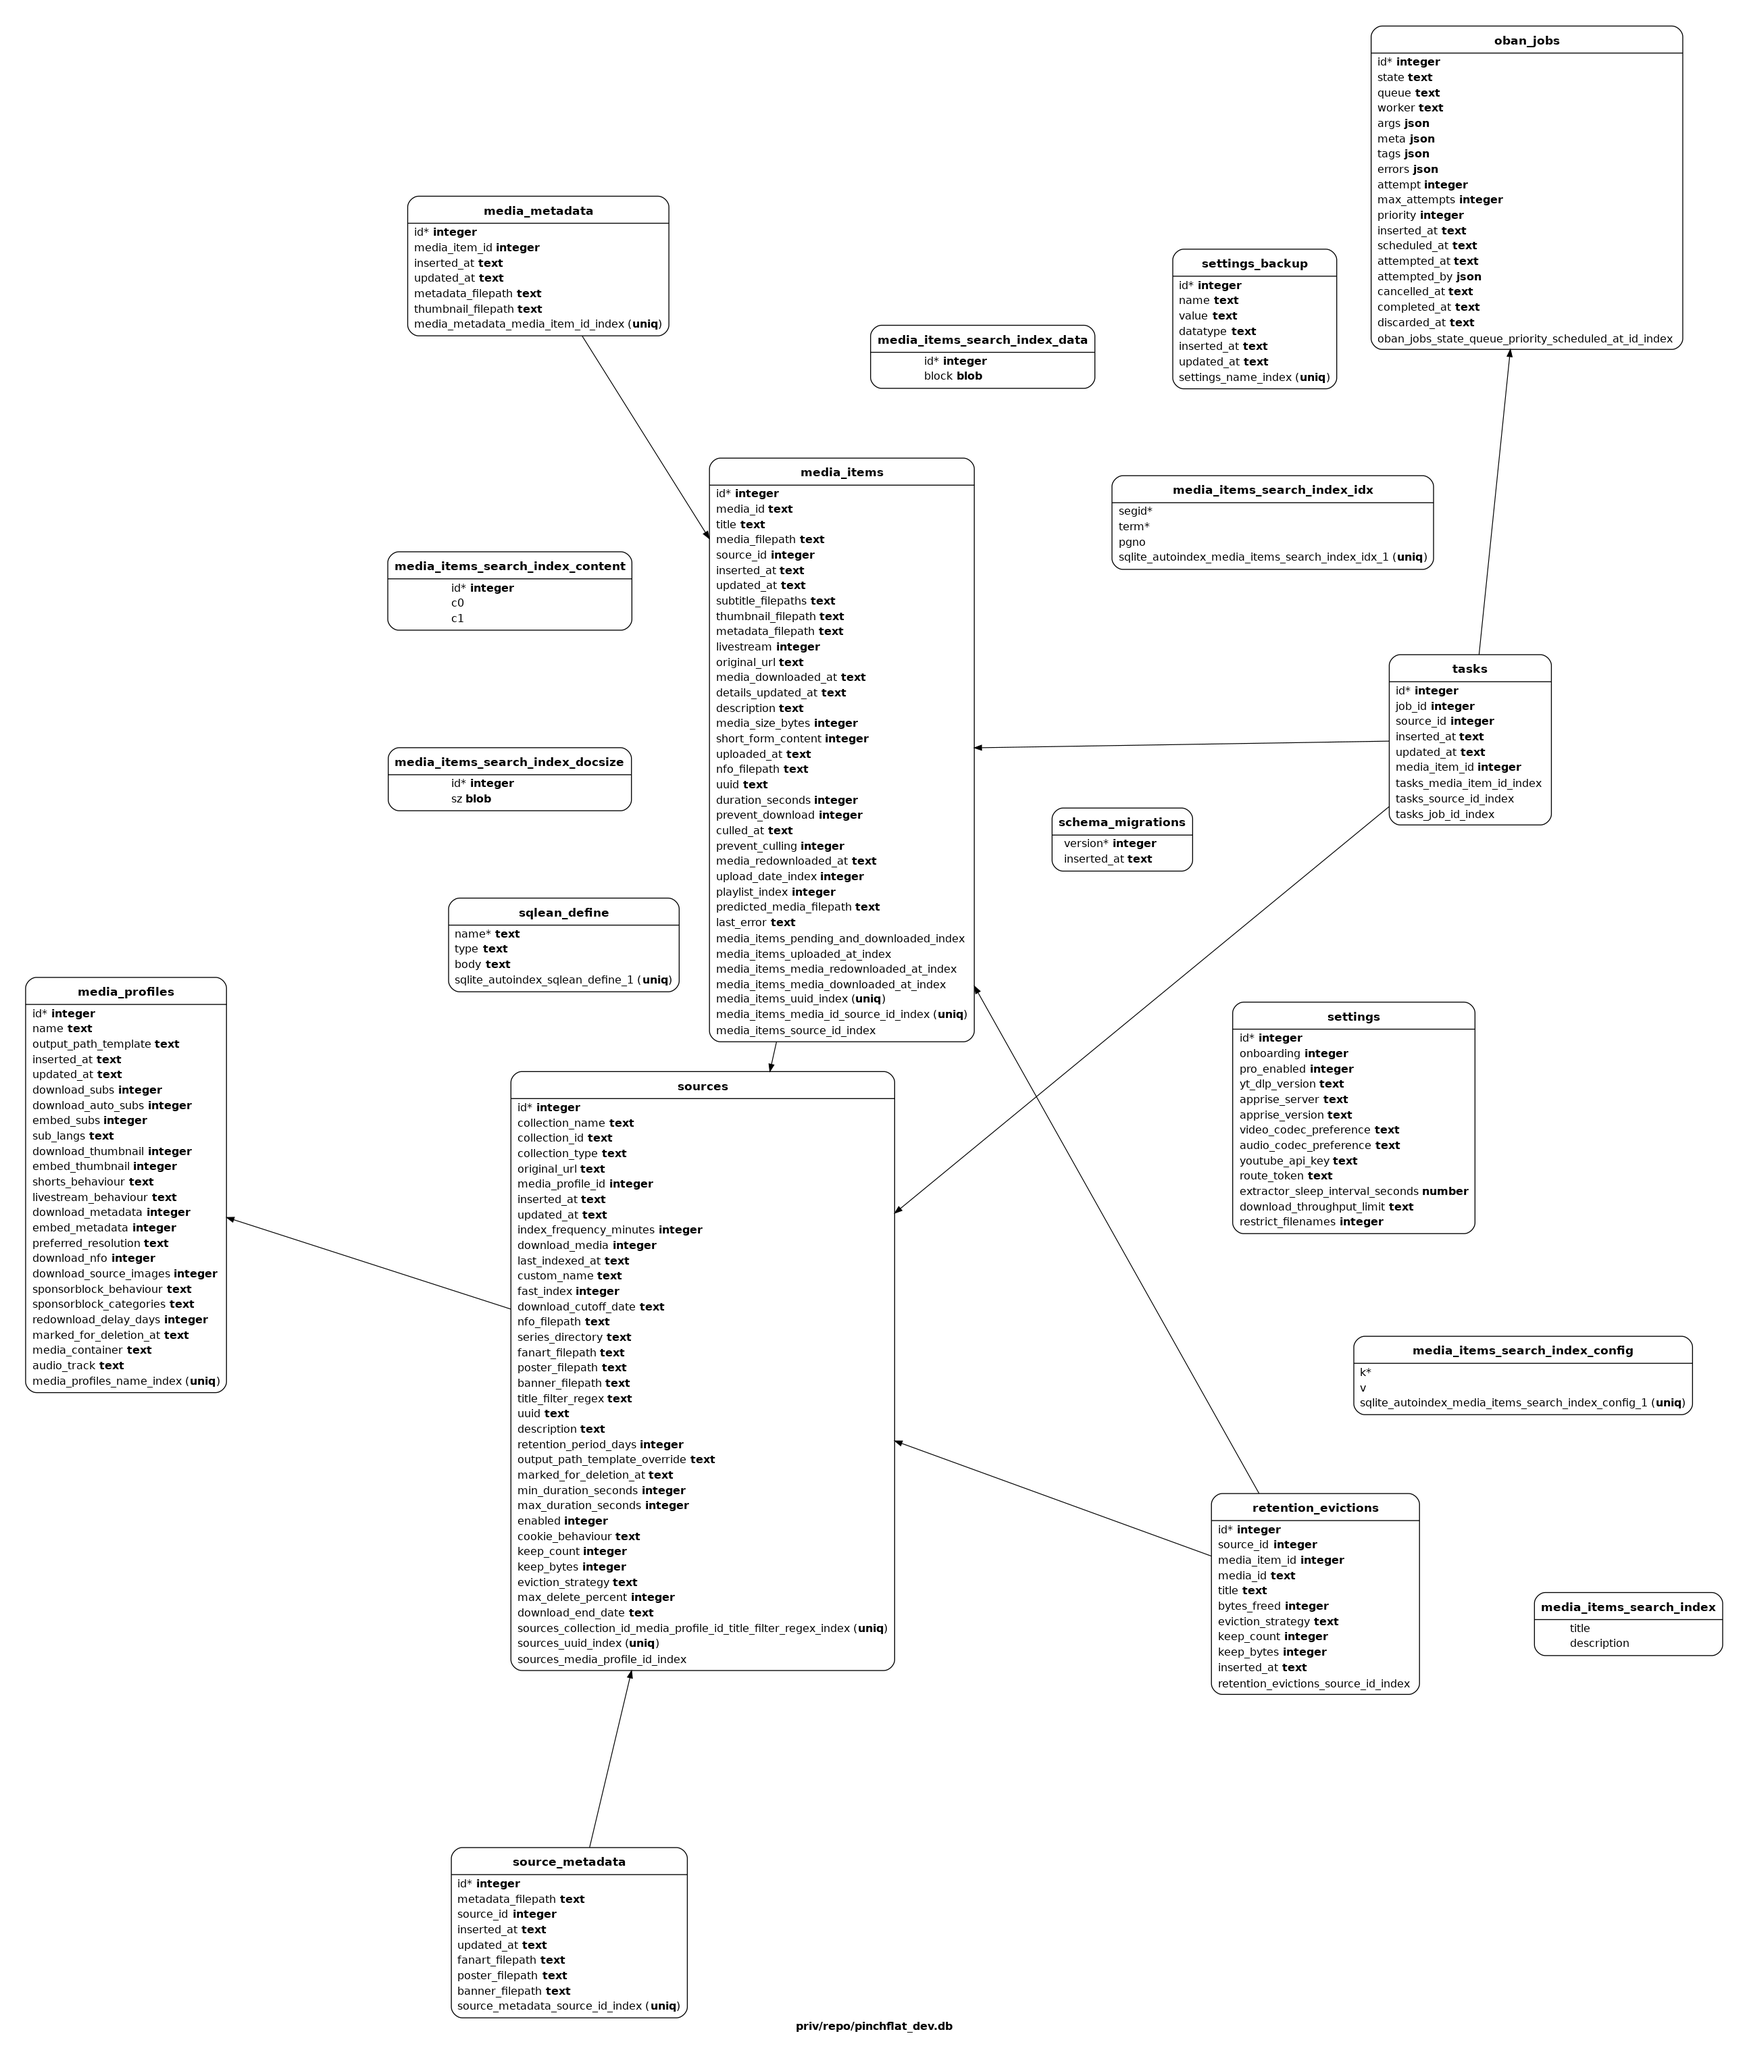
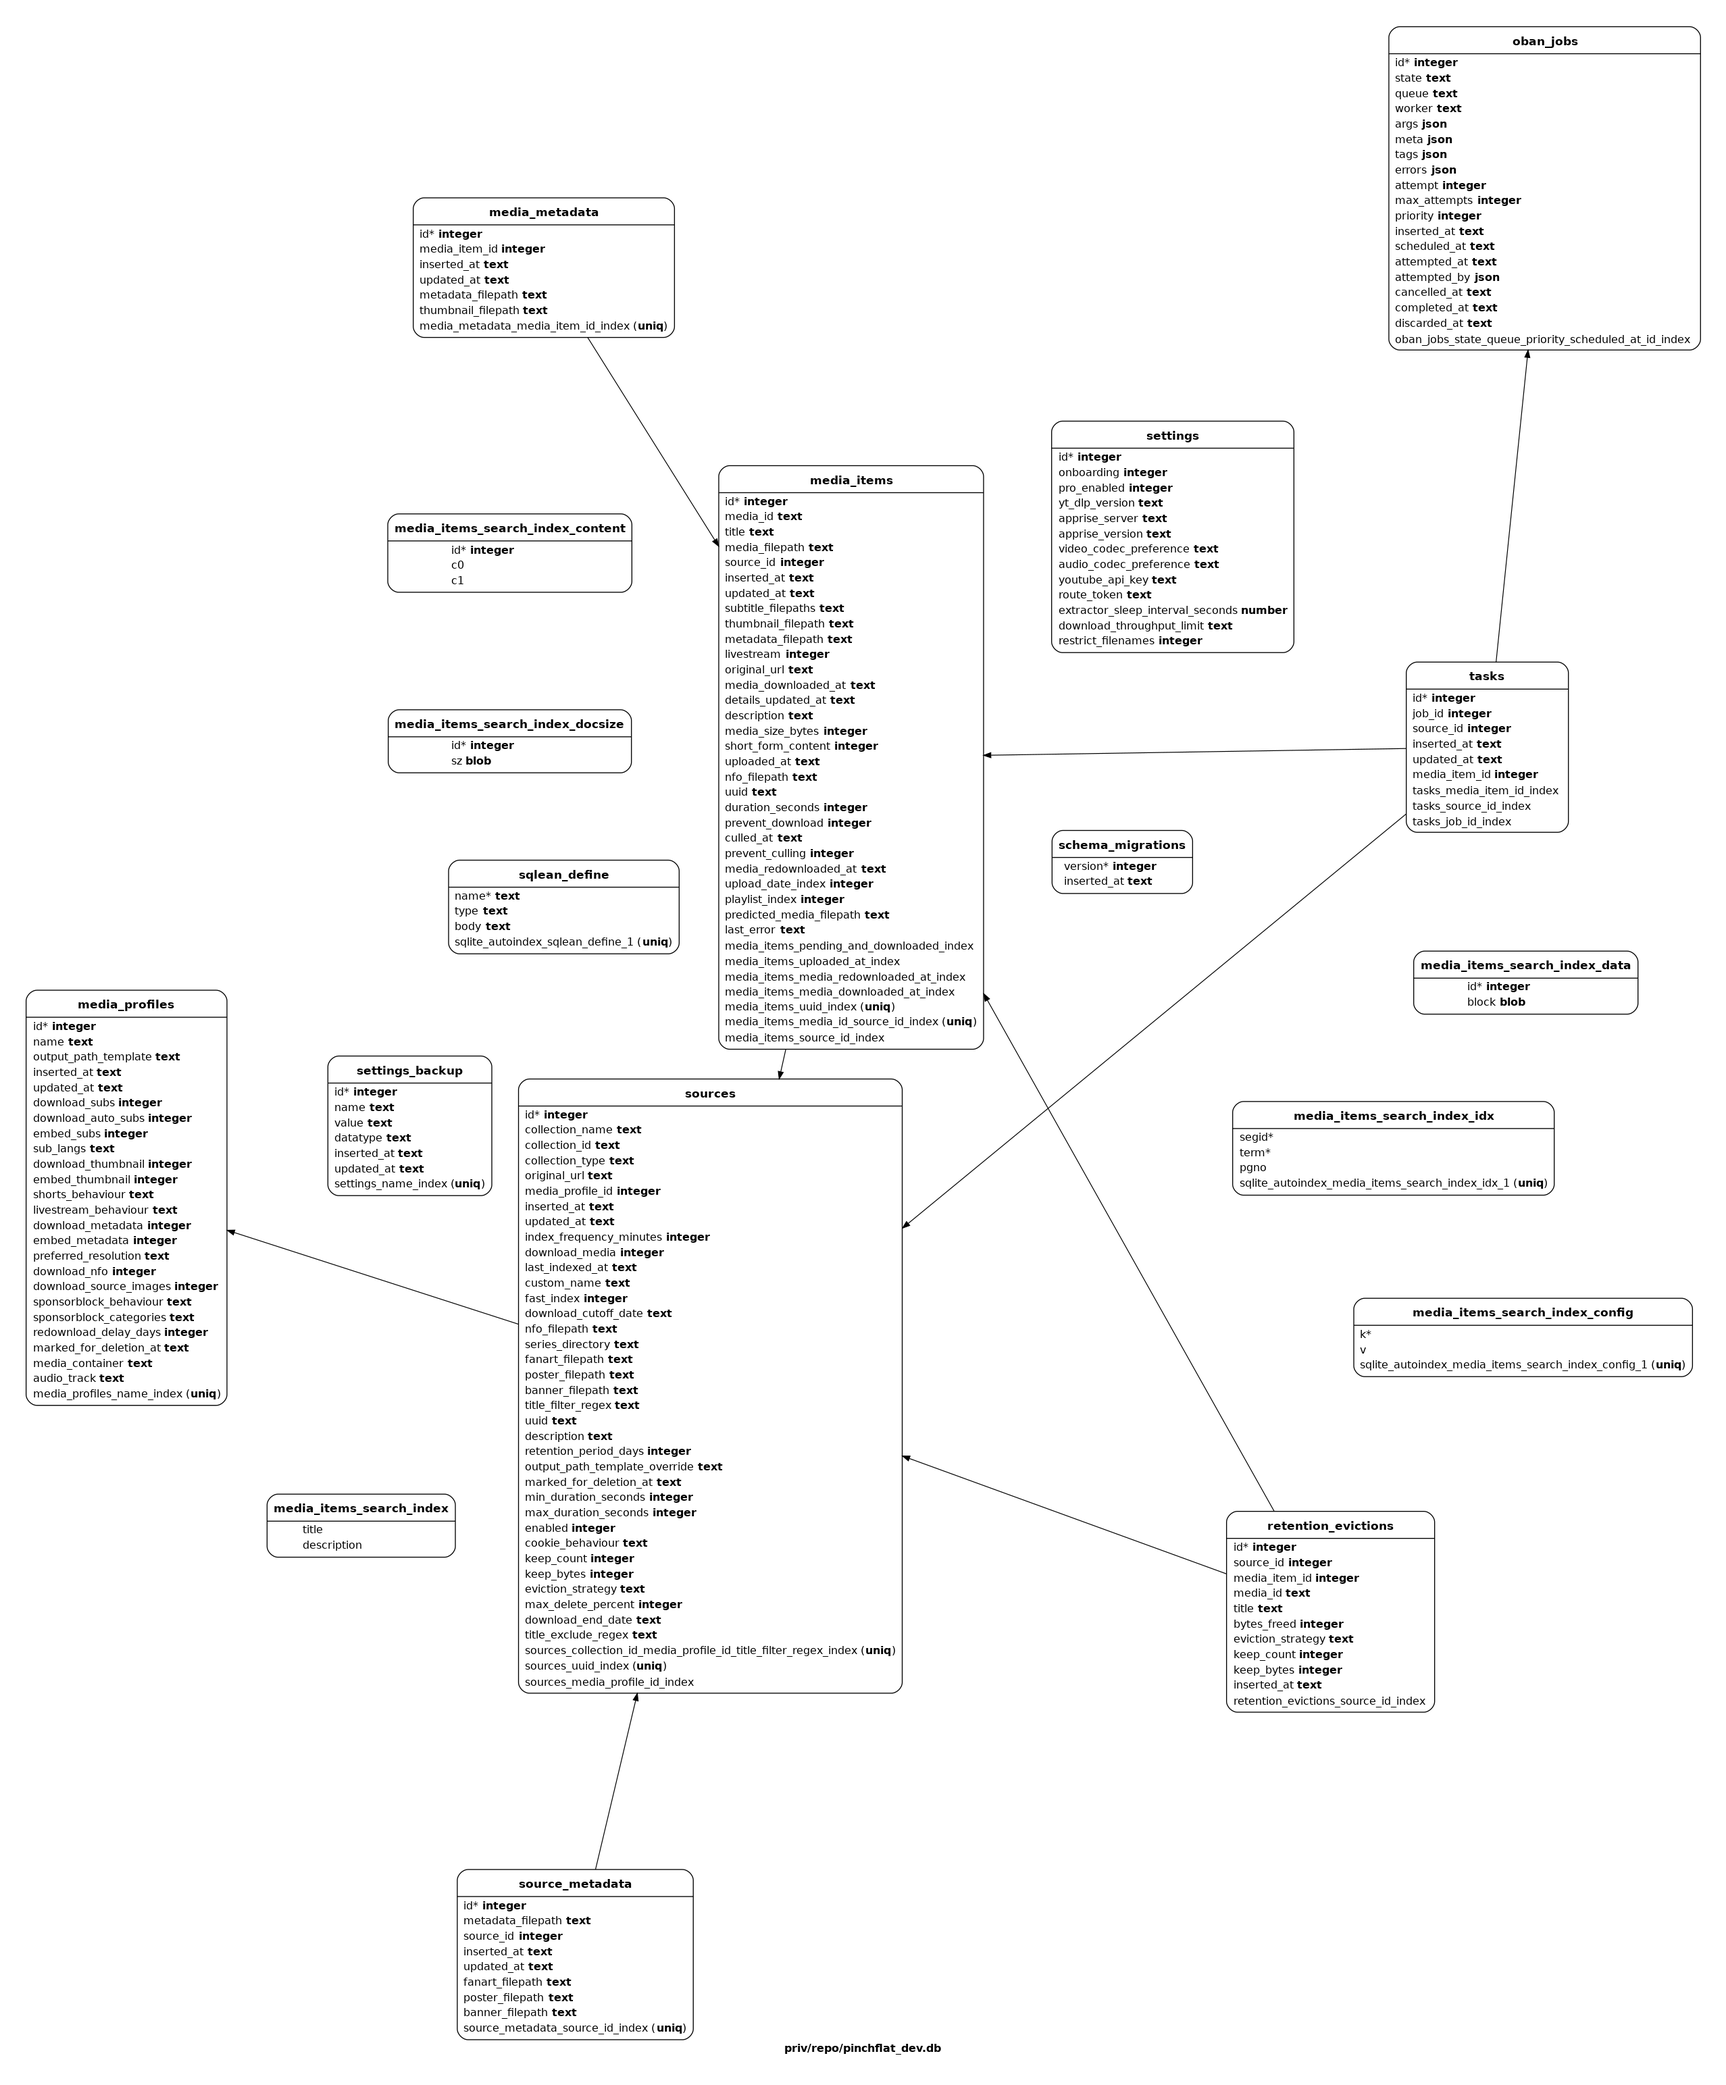
Add title exclude filter with live preview (Epic 4, slice 1)
Adds title_exclude_regex: media whose title matches is NOT downloaded - the
inverse of the include-only title_filter_regex. Solves dropping junk by title
(compilation, best of, #shorts, emoji); use alternation for multiple terms.

- does_not_match_source_exclude_regex predicate in pending; shared
  validate_regex_field/2 on the changeset for both regex fields.
- GET /sources/:id/filter_preview returns match/excluded counts for the
  (unsaved) patterns against the source's indexed media; invalid patterns are
  probed and return {error: true} so a half-typed regex shows "Invalid regex"
  rather than 500ing.
- Source form: exclude field + live "X of Y match (Z excluded)" preview.

First slice of Epic 4; the full structured AND/OR rule builder is still ahead.
Documented in docs/fork-features.md.

Verified against real data: excluding (?i)space|nasa|gravity on a 351-item
source previews 324 matched / 27 excluded.

diff --git a/docs/fork-features.md b/docs/fork-features.md
@@ -9,6 +9,7 @@ Branch: `fork-mvp`. All features below are tested and pass the full `mix check` 
 ## Epic 0 - Metadata foundation
 
 ### Metadata-only reindex action
+
 Forces a full re-enumeration of a source's collection and upserts `media_items` without enqueueing any downloads - even on a source with `download_media` enabled. Useful for backfilling metadata on old videos (to power the cadence histogram, filter previews, etc).
 
 - **Use it:** source page → Actions → "Reindex Metadata (no download)".
@@ -22,26 +23,31 @@ Forces a full re-enumeration of a source's collection and upserts `media_items` 
 Per-source budgets that keep a library bounded and self-trimming, instead of upstream's days-only retention.
 
 ### Budgets and eviction
+
 - **`keep_count`** - keep at most N items. **`keep_bytes`** - keep at most N bytes (entered as GB in the UI). Most restrictive wins.
 - **`eviction_strategy`** - `oldest` / `newest` / `shortest` / `longest`. Decides which items are kept vs evicted.
 - **Use it:** source form (advanced) → Keep Most Recent / Maximum Total Size / Eviction Strategy.
 - **How:** `Pinchflat.Downloading.RetentionPolicy` is a pure evaluator (`eviction_candidates/2`). The `MediaRetentionWorker` adds a budget pass that evicts via `Media.delete_media_files` (sets `prevent_download` + `culled_at`), respecting `prevent_culling` pins.
 
 ### Download gating (don't download then evict)
+
 The count budget also gates download selection: only the N items the eviction strategy would keep are eligible to download, ranked from indexed metadata. So `keep_count = 10` with no cutoff downloads only the newest 10, not the whole back catalog.
 
 - **How:** `MediaQuery.within_keep_count_window/0` - a correlated-subquery predicate in `pending`. `keep_bytes` can't gate downloads (sizes are unknown pre-download), so it's cleanup-only.
 - Verified: a real source went from 419 pending downloads to 0 once a count budget was set.
 
 ### Safety guard
+
 - **`max_delete_percent`** - skip eviction for a source if one run would remove more than this share of its downloaded media. Opt-in (blank = no guard).
 
 ### Live preview
+
 On the source form, a line shows "Would keep X of Y, evict Z (~N GB freed)" computed live against the source's real downloaded media as you change the budget - before saving.
 
 - **How:** `GET /sources/:id/retention_preview` returns JSON from `RetentionPolicy.summarize/2`. Alpine on the form fetches it (debounced). Note: the fetch must not send `Accept: application/json` (the browser pipeline's `:accepts ["html"]` 406s it).
 
 ### Eviction audit log
+
 Every budget eviction writes an append-only `retention_evictions` row: what, when, bytes freed, and a snapshot of the triggering budget. Denormalized `media_id`/`title` so rows survive media-item changes.
 
 - **How:** `Pinchflat.Downloading.RetentionEviction.record/2`, called from the worker. UI surfacing of the log is deferred.
@@ -51,6 +57,7 @@ Every budget eviction writes an append-only `retention_evictions` row: what, whe
 ## Epic 2 - Selection windows
 
 ### Download end date
+
 Upper bound on upload date, complementing the existing `download_cutoff_date` lower bound. Together they form an explicit date range (e.g. only a show's 2022 run). Gates download selection only.
 
 - **Use it:** source form (advanced) → Download End Date.
@@ -62,8 +69,30 @@ Upper bound on upload date, complementing the existing `download_cutoff_date` lo
 ## Epic 3 - Metadata-driven config UX
 
 ### Upload-cadence histogram
+
 A month-by-month bar chart of when a source published content (all indexed media, zero-filled gaps), on the source overview. Makes choosing a download window legible - you can see active periods and droughts at a glance.
 
 - **See it:** source page → Source tab → "Upload Cadence".
 - **How:** `Media.upload_cadence_by_month_for/1` aggregates `uploaded_at` into a continuous monthly series; rendered server-side as CSS bars (no JS chart lib). Read-only for now (the interactive drag-to-select version is deferred).
 - The browsable media list (Pending / Downloaded / Other tabs) already exists upstream.
+
+---
+
+## Epic 4 - Filtering
+
+### Title exclude regex
+
+Inverse of the existing `title_filter_regex` (which only includes): media whose title matches `title_exclude_regex` is NOT downloaded. Solves the common case of dropping junk by title - "compilation", "best of", emoji, `#shorts` - which the include-only filter couldn't express. Use alternation (`foo|bar`) to exclude multiple terms in one pattern.
+
+- **Use it:** source form (advanced) → Title Exclude Regex.
+- **How:** `MediaQuery.does_not_match_source_exclude_regex/0` in `pending` (negated `regexp_like`). Both regex fields share `validate_regex_field/2` on the changeset.
+
+### Live filter preview
+
+On the source form, a line shows "X of Y indexed videos match (Z excluded)" computed live against the source's real indexed media as you edit the include/exclude patterns. A half-typed or invalid regex shows "Invalid regex" instead of crashing.
+
+- **How:** `GET /sources/:id/filter_preview` runs the include/exclude patterns against the source's `media_items` and returns match counts; invalid patterns are probed first and return `{error: true}`. Same Alpine-fetch pattern as the retention preview (no `Accept: application/json` header).
+
+### Status / deferred
+
+This is the first slice of Epic 4. The full structured rule builder (multiple AND/OR rules across title/duration/date/flags with per-rule UI) is still ahead; a single exclude regex with alternation covers the most common multi-term case in the meantime. The "would download / keep / delete" three-way preview and the in-list live highlighting are also deferred.
